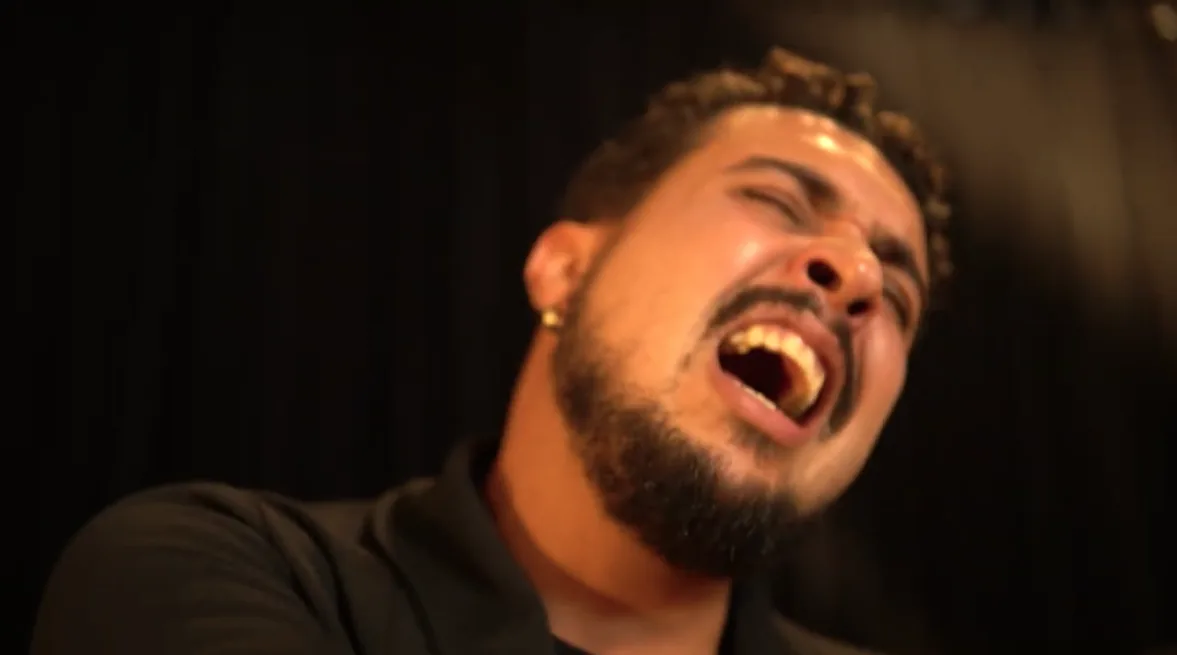
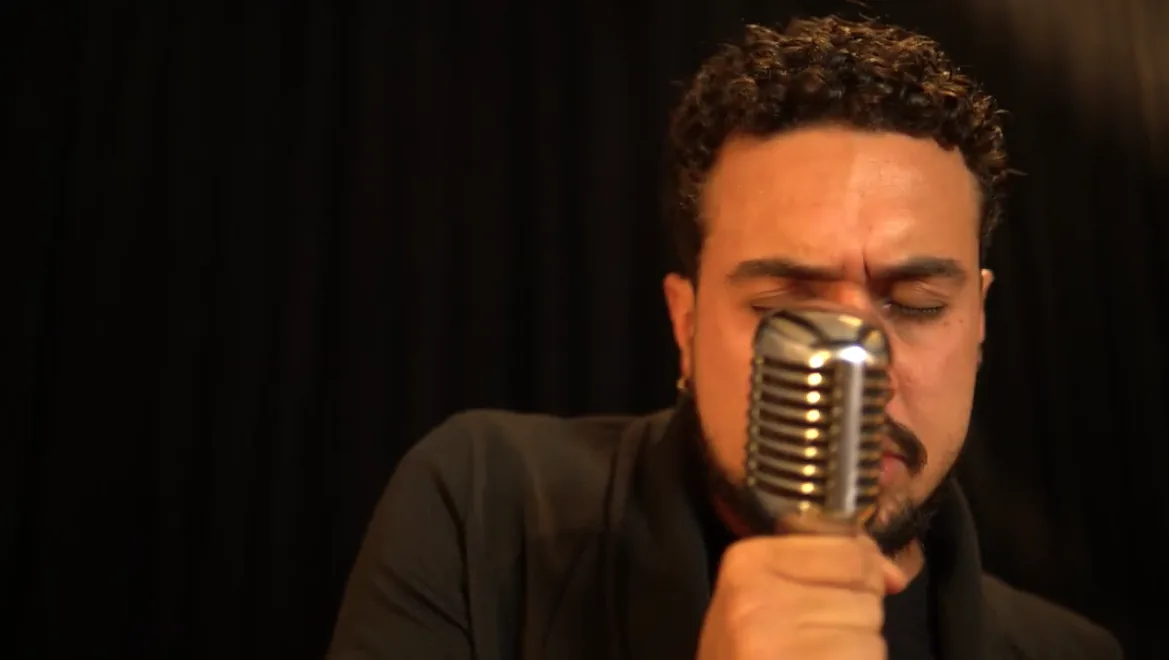
Ajustes de textos, ordem das faixas e frame de Lúgubre (#22)
* Ajusta textos da home e da ficha técnica do Correnteza

- Remove a linha de local acima do nome, na abertura
- Novos textos: Correnteza (pré-save), Pacífico Homem, clipes e 'Raízes mineiras'
- 'Faixa do álbum' no sobretítulo dos clipes A Dança das Chamas e Lúgubre
- 'Ler história completa' expande a história da dupla (aria-expanded, teclado)
- Legendas da galeria e trajetória com nome e local dos festivais
- Ficha técnica: Estúdio Leve Music, Belo Horizonte – MG

* Correnteza passa a ser a faixa 05; novo frame do clipe de Lúgubre

- Listas de faixas e do encarte em correnteza.html na ordem nova
- Endereços curtos e cartões de link renumerados (Correnteza 05,
  A Dança das Chamas 06, Degredo 07, Lúgubre 08)
- Card do clipe de Lúgubre com o frame novo (frame_lugubre)

---------

diff --git a/index.html b/index.html
@@ -23,7 +23,7 @@
 <link rel="preconnect" href="https://fonts.googleapis.com">
 <link rel="preconnect" href="https://fonts.gstatic.com" crossorigin>
 <link href="https://fonts.googleapis.com/css2?family=Cormorant+Garamond:ital,wght@0,400;0,500;0,600;1,400;1,500&family=Work+Sans:wght@400;500;600&display=swap" rel="stylesheet">
-<link rel="stylesheet" href="css/estilo.css?v=9">
+<link rel="stylesheet" href="css/estilo.css?v=14">
 </head>
 <body>
 
@@ -69,7 +69,6 @@
 <svg viewBox="0 0 1440 220" preserveAspectRatio="none"><path d="M0 110 C 260 70, 520 95, 760 60 S 1180 95, 1440 70 L1440 220 L0 220Z" fill="#0E1826"/></svg>
 </div>
 <div class="abertura-texto" id="aberturaTexto">
-<p class="local">Alvinópolis, Minas Gerais</p>
 <h1><span>Thales Carvalho</span><span>&amp; Thayson Azevedo</span></h1>
 <div class="acoes">
 <a class="botao contorno" href="#trajetoria">Conheça nossa trajetória</a>
@@ -93,7 +92,7 @@
 <p class="quando passo" data-limite="0.12">Em breve, nosso primeiro álbum</p>
 <h2 class="passo" data-limite="0.22">Correnteza</h2>
 <p class="verso passo" data-limite="0.34">Vem em mim, correnteza</p>
-<p class="descricao passo" data-limite="0.46">Uma jornada poética e sensorial sobre a força transformadora da natureza, os fluxos internos da alma humana e a busca por significado diante dos desafios da existência. É o resultado de um caminho marcado por resiliência e amizade, uma celebração das vozes do interior, geográfico e humano.</p>
+<p class="descricao passo" data-limite="0.46">Uma jornada poética e sensorial pela força transformadora da natureza e pelos fluxos internos da experiência humana. Entre paisagens, afetos e movimento, <em>Correnteza</em> celebra tanto o interior de Minas Gerais, onde essa música nasce, quanto o universo íntimo de sentimentos, memórias e transformações que atravessam cada pessoa. O álbum marca ainda o amadurecimento de uma parceria musical e de uma amizade construída ao longo de mais de quinze anos.</p>
 <div class="passo" data-limite="0.6">
 <div class="acoes-linha">
 <a class="botao" href="#correnteza">Fazer pré-save</a>
@@ -110,8 +109,17 @@
 <div class="quem-in">
 <div>
 <h2>Raízes mineiras, olhar contemporâneo</h2>
-<p>O duo Thales Carvalho e Thayson Azevedo constrói, há mais de 15 anos, uma trajetória dedicada à música autoral em Minas Gerais. Reconhecidos em festivais pela força de suas composições, unem raízes mineiras a influências contemporâneas. Seu trabalho é marcado pela experimentação estética, pela fusão de sonoridades e pelo compromisso com a cena cultural local. Agora preparam o lançamento do álbum Correnteza, síntese poética dessa caminhada conjunta.</p>
-<a class="mais" href="#trajetoria">Ler a história completa</a>
+<p>Thales Carvalho e Thayson Azevedo constroem há mais de 15 anos uma trajetória dedicada à música autoral em Minas Gerais. Reconhecido por sua participação e premiações em festivais da canção, o duo traz consigo o aprendizado da música feita no interior mineiro e o coloca em diálogo com diferentes caminhos da música brasileira e do rock. Em <strong>Correnteza</strong>, seu novo álbum, essas águas se encontram em um trabalho que celebra suas raízes e, ao mesmo tempo, se abre à experimentação.</p>
+<!-- história completa: sem JS fica aberta; o principal.js recolhe e liga o botão "Ler história completa" -->
+<div class="historia" id="historiaCompleta"><div>
+<p>Thales e Thayson se conheceram em 2007, ainda muito jovens, durante as aulas de musicalização de uma banda de instrumentos de sopro de sua cidade natal, Alvinópolis, no interior de Minas Gerais. Foi nesse ambiente que amizade e música começaram a caminhar juntas. A partir de 2009, ao lado de outros amigos, formaram seu primeiro projeto musical: uma banda de rock. Desde então, seguiram compondo, tocando e construindo uma parceria que atravessaria diferentes projetos e momentos de suas vidas.</p>
+<p>Parte importante dessa formação aconteceu nos festivais de música autoral. A convivência com compositores, intérpretes, músicos e diferentes formas de fazer canção transformou esses espaços em verdadeiras escolas para a dupla. Entre participações, premiações e projetos realizados por meio de leis de incentivo à cultura, Thales e Thayson foram amadurecendo uma linguagem própria, marcada pelo encontro entre a canção brasileira, a experiência do rock e a musicalidade aprendida no interior.</p>
+<p>Essa caminhada deságua em <strong>Correnteza</strong>, álbum cuja gravação começou em 2024. O trabalho nasce do desejo de olhar novamente para as próprias raízes e celebrar a música mineira a partir da experiência particular da dupla. Não se trata de reproduzir uma tradição, mas de atravessá-la com tudo aquilo que Thales e Thayson ouviram, tocaram e aprenderam ao longo dos anos. Assim, referências da canção brasileira convivem com o rock e com outras sonoridades, criando uma música ao mesmo tempo ligada ao lugar de onde veio e aberta para outros caminhos.</p>
+<p>A construção do álbum também reuniu importantes músicos da cena mineira. A produção ficou a cargo do produtor e baixista Felipe Fantoni, e as gravações contaram ainda com a participação do baterista Arthur Rezende. Essas colaborações ampliam a dimensão coletiva de <strong>Correnteza</strong> e aproximam ainda mais o trabalho da rede de músicos que movimenta a produção musical contemporânea em seu lugar de origem.</p>
+<p>O próprio nome do álbum traduz esse movimento. Ele é feito de nascimentos, encontros, desvios e confluências: mais de quinze anos de história que seguem seu curso até chegar a essas canções. Essa ideia de fluxo também aparece nas letras, atravessadas por rios, águas, ventos, fogo, caminhos e outras imagens da natureza. São imagens que nascem de uma sensibilidade formada no interior de Minas Gerais, onde a paisagem não é apenas cenário, mas parte da maneira de perceber o mundo. Por isso a obra também dialoga com uma longa tradição da canção feita em Minas e em tantos interiores do Brasil, onde a natureza frequentemente se transforma em matéria de poesia. No álbum, porém, ela não aparece apenas para ser contemplada. A paisagem externa também abre caminho para uma paisagem interior. Rios, ventos, águas e movimentos da terra acabam falando de passagem, desejo, memória, transformação e sentimento.</p>
+<p>Há, portanto, duas naturezas em <strong>Correnteza</strong>: aquela que se vê ao redor e aquela que cada pessoa carrega dentro de si. Entre uma e outra, Thales Carvalho e Thayson Azevedo apresentam um álbum que olha para o lugar de onde vieram enquanto continua seguindo adiante — como toda correnteza.</p>
+</div></div>
+<button type="button" class="mais" id="btHistoria" aria-expanded="true" aria-controls="historiaCompleta" hidden>Ler história completa</button>
 </div>
 <img class="retrato" src="img/sem-ano_sem-evento_sem-musica-3.webp" width="1200" height="1600" loading="lazy" alt="Thales Carvalho e Thayson Azevedo no palco, com violão e guitarra, sob luz vermelha">
 </div>
@@ -126,21 +134,21 @@
 </div>
 <div class="rio" aria-hidden="true"><span id="rioCheio"></span></div>
 <div class="trilha" id="trilha">
-<article class="marco"><span class="ano">2009</span><h3>Melhor intérprete · 29º Festival</h3><span class="musica">Meu triunfo é o rock n' roll</span><p>Movidos pelo Festival da Canção de Alvinópolis, nasce a parceria.</p>
+<article class="marco"><span class="ano">2009</span><h3>Melhor intérprete · 29º Festival da Canção de Alvinópolis – MG</h3><span class="musica">Meu triunfo é o rock n' roll</span><p>Movidos pelo Festival da Canção de Alvinópolis, nasce a parceria.</p>
 <img src="img/2009_festival-alvinopolis_meu-triunfo-e-o-rock-n-roll.webp" width="448" height="336" alt="Banda tocando guitarras no palco do Festival da Canção de Alvinópolis em 2009, com luzes coloridas e fumaça"></article>
 <article class="marco"><span class="ano">2012</span><h3>Melhor intérprete</h3><span class="musica">Monotonia</span><p>Com a banda Hard Case.</p>
 <img src="img/2012_festival-alvinopolis_monotonia.webp" width="960" height="720" loading="lazy" alt="A banda Hard Case posando em tom de brincadeira numa praça à noite, no festival de 2012"></article>
 <article class="marco"><span class="ano">2014</span><h3>4º lugar geral</h3><span class="musica">O espelho do outro lado</span><p>Já como Paralello.</p>
 <img src="img/2014_festival-alvinopolis-premiacao_o-espelho-do-outro-lado.webp" width="960" height="720" loading="lazy" alt="Premiados no palco do Festival da Canção de Alvinópolis de 2014, com o troféu em forma de clave de sol"></article>
-<article class="marco"><span class="ano">2016</span><h3>1º lugar da fase local</h3><span class="musica">Encruzilhada</span><p>Paralello no 36º Festival da Canção.</p>
+<article class="marco"><span class="ano">2016</span><h3>1º lugar da fase local</h3><span class="musica">Encruzilhada</span><p>Paralello no 36º Festival da Canção de Alvinópolis – MG.</p>
 <img src="img/2016_festival-alvinopolis-fase-local_encruzilhada.webp" width="960" height="540" loading="lazy" alt="Paralello tocando Encruzilhada no Celeiro Bar, com o banner do 36º Festival da Canção de Alvinópolis, 2016"></article>
-<article class="marco"><span class="ano">2019</span><h3>1º lugar geral · 37º Festival</h3><span class="musica">No Leito</span>
+<article class="marco"><span class="ano">2019</span><h3>1º lugar geral · 37º Festival da Canção de Alvinópolis – MG</h3><span class="musica">No Leito</span>
 <img src="img/2019_festival-alvinopolis-premiacao_no-leito.webp" width="744" height="690" loading="lazy" alt="Quatro amigos abraçados segurando o troféu de primeiro lugar geral do Festival da Canção de Alvinópolis, 2019"></article>
-<article class="marco"><span class="ano">2023</span><h3>Melhor Música de Alvinópolis · 38º Festival</h3><span class="musica">Lúgubre</span><p>A canção premiada ganha videoclipe em 2024.</p>
+<article class="marco"><span class="ano">2023</span><h3>Melhor Música de Alvinópolis · 38º Festival da Canção de Alvinópolis – MG</h3><span class="musica">Lúgubre</span><p>A canção premiada ganha videoclipe em 2024.</p>
 <img src="img/2023_festival-alvinopolis-premiacao_lugubre.webp" width="1599" height="1066" loading="lazy" alt="A dupla e músicos com os cheques de Melhor Música de Alvinópolis no 38º Festival da Canção"></article>
-<article class="marco"><span class="ano">2025</span><h3>Melhor Música de Alvinópolis · 39º Festival</h3><span class="musica">Meandros</span><p>A dupla volta a ser premiada no Festival da Canção.</p>
+<article class="marco"><span class="ano">2025</span><h3>Melhor Música de Alvinópolis · 39º Festival da Canção de Alvinópolis – MG</h3><span class="musica">Meandros</span><p>A dupla volta a ser premiada no Festival da Canção.</p>
 <img src="img/2025_festival-alvinopolis-premiacao_meandros.webp" width="1078" height="832" loading="lazy" alt="Amigos comemoram com a placa de Melhor Música de Alvinópolis diante do banner do 39º Festival da Canção, em 2025"></article>
-<article class="marco"><span class="ano">2026</span><h3>Melhor Música de Alvinópolis · 40º Festival</h3><span class="musica">Do Avesso</span><p>Mais uma canção premiada no Festival da Canção de Alvinópolis.</p>
+<article class="marco"><span class="ano">2026</span><h3>Melhor Música de Alvinópolis · 40º Festival da Canção de Alvinópolis – MG</h3><span class="musica">Do Avesso</span><p>Mais uma canção premiada no Festival da Canção de Alvinópolis.</p>
 <img src="img/2026_festival-alvinopolis-premiacao_do-avesso.webp" width="1200" height="1600" loading="lazy" alt="Grupo abraçado no palco com o troféu de Melhor Música de Alvinópolis, na premiação de Do Avesso em 2026"></article>
 <article class="marco destaque"><span class="ano">Hoje</span><h3>Lançamento de singles e do álbum Correnteza</h3><span class="musica">A próxima página</span><p>Os singles chegam às plataformas e o primeiro álbum se aproxima.</p>
 <img src="img/2025_show-acustico-correnteza_sem-musica-3.webp" width="1200" height="1600" loading="lazy" alt="A dupla em show acústico de Correnteza, com a arte do álbum projetada ao fundo"></article>
@@ -156,7 +164,7 @@
 <img class="capinha" src="img/sem-ano_capa-single_pacifico-homem.webp" width="1600" height="1600" loading="lazy" alt="Capa de Pacífico Homem: homem de máscara segurando um ramo, num vale enevoado cortado por um riacho">
 <p class="gancho">Composta na Rua Pacífico Homem, em Ouro Preto</p>
 <h3>Pacífico Homem, single</h3>
-<p>Produzido do zero em home studio, com sonoridade intimista e tecnicamente cuidadosa.</p>
+<p>Produzido de forma independente, o single flerta com a sonoridade da música brasileira setentista.</p>
 <div class="obra-acoes">
 <a class="botao" href="https://open.spotify.com/track/0tWGZJrif0WSTOK7dhBFYT" target="_blank" rel="noopener">Ouvir no Spotify</a>
 <button type="button" class="obra-partilhar" data-titulo="Pacífico Homem" data-link="https://open.spotify.com/track/0tWGZJrif0WSTOK7dhBFYT" aria-label="Compartilhar Pacífico Homem"><svg viewBox="0 0 24 24" aria-hidden="true"><circle cx="18" cy="5.5" r="2.6"/><circle cx="6" cy="12" r="2.6"/><circle cx="18" cy="18.5" r="2.6"/><path d="M8.3 10.8l7.4-4M8.3 13.2l7.4 4"/></svg><span>Compartilhar</span></button>
@@ -181,16 +189,16 @@
 </article>
 <article class="obra chamas">
 <img class="capinha" src="img/sem-ano_clipe_danca-das-chamas.webp" width="1600" height="905" loading="lazy" alt="Frame do videoclipe de A Dança das Chamas: a dupla canta e toca violão em estúdio">
-<p class="gancho">Faixa de Correnteza</p>
+<p class="gancho">Faixa do álbum</p>
 <h3>A Dança das Chamas, videoclipe</h3>
-<p>Gravado em estúdio e exibido na Mostra Cultural da Lei Paulo Gustavo. Estreia em breve no YouTube.</p>
+<p>Clipe no formato de making of, registrando o processo de gravação.</p>
 <span class="botao contorno em-breve" aria-disabled="true">Em breve</span>
 </article>
 <article class="obra lugubre">
-<img class="capinha" src="img/sem-ano_clipe_lugubre.webp" width="1177" height="655" loading="lazy" alt="Frame do videoclipe de Lúgubre: o cantor de olhos fechados, cantando com intensidade sobre fundo escuro">
-<p class="gancho">Fala, minha noite</p>
+<img class="capinha" src="img/sem-ano_clipe_lugubre.webp?v=2" width="1169" height="660" loading="lazy" alt="Frame do videoclipe de Lúgubre: o cantor de olhos fechados canta num microfone antigo, sobre fundo escuro">
+<p class="gancho">Faixa do álbum</p>
 <h3>Lúgubre, videoclipe</h3>
-<p>Exibido em Alvinópolis na Mostra Cultural da Lei Paulo Gustavo, assim como A Dança das Chamas.</p>
+<p>Clipe no formato de making of, registrando o processo de gravação.</p>
 <span class="botao contorno em-breve" aria-disabled="true">Em breve</span>
 </article>
 </div>
@@ -205,17 +213,17 @@
 <figure><button type="button"><img src="img/sem-ano_bolsa-amarela_sem-musica.webp" width="1048" height="724" loading="lazy" alt="Foto antiga da primeira banda da dupla tocando guitarras na rua"></button>
 <figcaption><b>2008</b> · <i>A Bolsa Amarela</i> · Paródia de <i>Minha Brasília Amarela</i>, dos Mamonas Assassinas, inspirada no livro <i>A Bolsa Amarela</i> e apresentada na Hora Cívica do colégio municipal. Foi a primeira apresentação da dupla em público, aos 15 anos, ao lado dos parceiros da primeira banda que os dois fundaram.</figcaption></figure>
 <figure><button type="button"><img src="img/2014_festival-alvinopolis_o-espelho-do-outro-lado.webp" width="960" height="640" loading="lazy" alt="Paralello no palco do Festival da Canção de Alvinópolis, 2014"></button>
-<figcaption><b>2014</b> · Festival da Canção de Alvinópolis · <i>O espelho do outro lado</i> · foto: fimagens.com</figcaption></figure>
+<figcaption><b>2014</b> · 4º lugar no Festival da Canção de Alvinópolis · foto: fimagens.com</figcaption></figure>
 <figure><button type="button"><img src="img/2019_rock-in-rua_sem-musica.webp" width="1024" height="768" loading="lazy" alt="Banda tocando no palco de rua do Rock in Rua, 2019"></button>
 <figcaption><b>2019</b> · Rock in Rua</figcaption></figure>
 <figure><button type="button"><img src="img/2023_festival-alvinopolis_lugubre.webp" width="1063" height="563" loading="lazy" alt="Cantor de braços abertos apresentando Lúgubre no 38º Festival da Canção de Alvinópolis"></button>
-<figcaption><b>2023</b> · 38º Festival da Canção de Alvinópolis · <i>Lúgubre</i></figcaption></figure>
+<figcaption><b>2023</b> · Prêmio de Melhor Música da Cidade no Festival da Canção de Alvinópolis</figcaption></figure>
 <figure><button type="button"><img src="img/sem-ano_festival-bela-vista_sem-musica.webp" width="1600" height="1200" loading="lazy" alt="Grupo de músicos e amigos reunidos em frente ao palco do festival em Bela Vista"></button>
-<figcaption><b>2023</b> · Festival em Bela Vista</figcaption></figure>
+<figcaption><b>2023</b> · Finalistas no Festival Canta Bela Vista, em Bela Vista de Minas – MG</figcaption></figure>
 <figure><button type="button"><img src="img/sem-ano_festival-bela-vista_lugubre.webp" width="1280" height="916" loading="lazy" alt="Apresentação de Lúgubre sob luz azul, com uma lua e uma árvore projetadas no telão"></button>
-<figcaption><b>2024</b> · Festival em Bela Vista · <i>Lúgubre</i></figcaption></figure>
+<figcaption><b>2023</b> · Participação no Festival Canta Bela Vista com a canção <i>Lúgubre</i></figcaption></figure>
 <figure><button type="button"><img src="img/sem-ano_mostra-cultural-lei-paulo-gustavo_danca-das-chamas-e-lugubre.webp" width="1600" height="1043" loading="lazy" alt="A dupla fala ao microfone na Mostra Cultural da Lei Paulo Gustavo"></button>
-<figcaption><b>2024</b> · Mostra Cultural Lei Paulo Gustavo · clipes de <i>A Dança das Chamas</i> e <i>Lúgubre</i></figcaption></figure>
+<figcaption><b>2024</b> · Exibição dos videoclipes de <i>A Dança das Chamas</i> e <i>Lúgubre</i>, com incentivo da Lei Paulo Gustavo</figcaption></figure>
 <figure><button type="button"><img src="img/2024_gravacao-leve-music_sem-musica.webp" width="900" height="1600" loading="lazy" alt="Colagem de bastidores da gravação em estúdio: violão, bateria e mesa de som"></button>
 <figcaption>Gravação no estúdio Leve Music</figcaption></figure>
 <figure><button type="button"><img src="img/2025_show-acustico-correnteza_sem-musica-1.webp" width="1200" height="1600" loading="lazy" alt="Músico de camisa preta toca violão sentado no show acústico de Correnteza"></button>
@@ -229,19 +237,19 @@
 <figure><button type="button"><img src="img/2026_sem-evento_sem-musica.webp" width="901" height="1600" loading="lazy" alt="Selfie da dupla de óculos escuros, com violões, num palco ao ar livre durante o dia em Bela Vista"></button>
 <figcaption><b>2026</b> · Festival em Bela Vista · <i>Meandros</i></figcaption></figure>
 <figure><button type="button"><img src="img/2026_festival-alvinopolis_do-avesso-1.webp" width="1600" height="1200" loading="lazy" alt="Banda no palco do Festival da Canção de Alvinópolis, com telão mostrando um disco e a torre de uma igreja"></button>
-<figcaption><b>2026</b> · Festival da Canção de Alvinópolis · <i>Do Avesso</i></figcaption></figure>
+<figcaption><b>2026</b> · Apresentação da canção inédita <i>Do Avesso</i></figcaption></figure>
 <figure><button type="button"><img src="img/2026_festival-alvinopolis_do-avesso-2.webp" width="1200" height="1600" loading="lazy" alt="A dupla tocando violões sob luzes azuis no palco do festival"></button>
-<figcaption><b>2026</b> · Festival da Canção de Alvinópolis · <i>Do Avesso</i></figcaption></figure>
+<figcaption><b>2026</b> · Apresentação da canção inédita <i>Do Avesso</i></figcaption></figure>
 <figure><button type="button"><img src="img/2026_festival-alvinopolis_do-avesso-3.webp" width="900" height="1600" loading="lazy" alt="A dupla com violão e guitarra no palco iluminado do festival"></button>
-<figcaption><b>2026</b> · Festival da Canção de Alvinópolis · <i>Do Avesso</i></figcaption></figure>
+<figcaption><b>2026</b> · Apresentação da canção inédita <i>Do Avesso</i></figcaption></figure>
 <figure><button type="button"><img src="img/sem-ano_sem-evento_sem-musica-1.webp" width="900" height="1600" loading="lazy" alt="A dupla em show, com violão e guitarra, sob luz azul, no 40º Festival da Canção de Alvinópolis"></button>
-<figcaption><b>2026</b> · 40º Festival da Canção de Alvinópolis</figcaption></figure>
+<figcaption><b>2026</b> · Finalistas no 40º Festival da Canção de Alvinópolis e Prêmio de Melhor Música da Cidade</figcaption></figure>
 <figure><button type="button"><img src="img/sem-ano_sem-evento_sem-musica-2.webp" width="900" height="1600" loading="lazy" alt="A dupla cantando e tocando violão e guitarra em palco escuro com luz azul, no 40º Festival da Canção de Alvinópolis"></button>
-<figcaption><b>2026</b> · 40º Festival da Canção de Alvinópolis</figcaption></figure>
+<figcaption><b>2026</b> · Finalistas no 40º Festival da Canção de Alvinópolis e Prêmio de Melhor Música da Cidade</figcaption></figure>
 <figure class="pequena"><button type="button"><img src="img/sem-ano_gravacao-home-studio_pacifico-homem.webp" width="249" height="375" loading="lazy" alt="Gravação em home studio: um músico canta ao microfone enquanto outro opera o computador"></button>
 <figcaption>Gravação em home studio · <i>Pacífico Homem</i></figcaption></figure>
 <figure><button type="button"><img src="img/sem-ano_equipe_sem-musica.webp" width="1200" height="1600" loading="lazy" alt="Quatro pessoas posam abraçadas diante de uma parede de capas de discos"></button>
-<figcaption>Equipe</figcaption></figure>
+<figcaption>Equipe do álbum: Felipe Fantoni, baixos e produção musical; Arthur Rezende, bateria</figcaption></figure>
 </div>
 </div>
 </section>
@@ -275,7 +283,7 @@
 </dialog>
 
 <script src="js/medicao.js?v=1"></script>
-<script src="js/principal.js?v=7"></script>
+<script src="js/principal.js?v=8"></script>
 <script src="js/rolagem.js?v=1"></script>
 </body>
 </html>

diff --git a/correnteza.html b/correnteza.html
@@ -195,10 +195,10 @@ faixas completas, letras e downloads para quem tem o código. -->
 <li><button type="button" class="faixa" disabled><span class="num">02</span><span class="nome">Candeia</span><span class="estado">exclusivo</span></button></li>
 <li><button type="button" class="faixa" disabled><span class="num">03</span><span class="nome">No Leito</span><span class="estado">exclusivo</span></button></li>
 <li><button type="button" class="faixa" disabled><span class="num">04</span><span class="nome">Meandros</span><span class="estado">exclusivo</span></button></li>
-<li><button type="button" class="faixa" disabled><span class="num">05</span><span class="nome">A Dança das Chamas</span><span class="estado">exclusivo</span></button></li>
-<li><button type="button" class="faixa" disabled><span class="num">06</span><span class="nome">Degredo</span><span class="estado">exclusivo</span></button></li>
-<li><button type="button" class="faixa" disabled><span class="num">07</span><span class="nome">Lúgubre</span><span class="estado">exclusivo</span></button></li>
-<li><button type="button" class="faixa" disabled><span class="num">08</span><span class="nome">Correnteza</span><span class="estado">exclusivo</span></button></li>
+<li><button type="button" class="faixa" disabled><span class="num">05</span><span class="nome">Correnteza</span><span class="estado">exclusivo</span></button></li>
+<li><button type="button" class="faixa" disabled><span class="num">06</span><span class="nome">A Dança das Chamas</span><span class="estado">exclusivo</span></button></li>
+<li><button type="button" class="faixa" disabled><span class="num">07</span><span class="nome">Degredo</span><span class="estado">exclusivo</span></button></li>
+<li><button type="button" class="faixa" disabled><span class="num">08</span><span class="nome">Lúgubre</span><span class="estado">exclusivo</span></button></li>
 <li><button type="button" class="faixa" disabled><span class="num">09</span><span class="nome">Endless</span><span class="estado">exclusivo</span></button></li>
 </ol>
 </div>
@@ -216,10 +216,10 @@ páginas com as letras, que vêm da API (as letras nunca ficam nos arquivos do s
 <li><span class="num">02</span><span class="nome">Candeia</span></li>
 <li><span class="num">03</span><span class="nome">No Leito</span></li>
 <li><span class="num">04</span><span class="nome">Meandros</span></li>
-<li><span class="num">05</span><span class="nome">A Dança das Chamas</span></li>
-<li><span class="num">06</span><span class="nome">Degredo</span></li>
-<li><span class="num">07</span><span class="nome">Lúgubre</span></li>
-<li><span class="num">08</span><span class="nome">Correnteza</span></li>
+<li><span class="num">05</span><span class="nome">Correnteza</span></li>
+<li><span class="num">06</span><span class="nome">A Dança das Chamas</span></li>
+<li><span class="num">07</span><span class="nome">Degredo</span></li>
+<li><span class="num">08</span><span class="nome">Lúgubre</span></li>
 <li><span class="num">09</span><span class="nome">Endless</span></li>
 </ol>
 </div>
@@ -237,7 +237,7 @@ páginas com as letras, que vêm da API (as letras nunca ficam nos arquivos do s
 <div><dt>Baixos</dt><dd>Felipe Fantoni</dd></div>
 <div><dt>Bateria</dt><dd>Arthur Rezende</dd></div>
 <div><dt>Teclados, pads e synths</dt><dd>Marcus Nogueira</dd></div>
-<div><dt>Gravação</dt><dd>estúdio Leve Music</dd></div>
+<div><dt>Gravação</dt><dd>Estúdio Leve Music, Belo Horizonte – MG</dd></div>
 <div><dt>Mixagem e masterização</dt><dd>Felipe Fantoni</dd></div>
 <div><dt>Arte da capa</dt><dd>Thales Carvalho e Thayson Azevedo</dd></div>
 </dl>

diff --git a/css/estilo.css b/css/estilo.css
@@ -86,7 +86,18 @@ img{ max-width:100%; height:auto; display:block; }
 .quem-in{ max-width:1280px; margin:0 auto; padding:120px 24px; display:grid; grid-template-columns:minmax(0,1.2fr) minmax(0,.8fr); gap:72px; align-items:center; }
 .quem h2{ font-family:var(--serif); font-weight:500; font-size:clamp(40px, 5vw, 64px); line-height:1.05; margin-bottom:24px; }
 .quem p{ color:#2B4560; max-width:62ch; margin-bottom:18px; }
-.quem a.mais{ color:var(--ambar-escuro); font-weight:600; text-decoration:none; }
+.quem .mais{ color:var(--ambar-escuro); font-weight:600; text-decoration:none; }
+/* "Ler história completa": o principal.js põe .recolhivel (sem JS o texto fica aberto) */
+.quem button.mais{ display:inline-flex; align-items:center; gap:8px; padding:6px 0; background:none; border:0; font:inherit; font-weight:600; cursor:pointer; }
+.quem button.mais::after{ content:''; width:7px; height:7px; border-right:2px solid currentColor; border-bottom:2px solid currentColor; transform:translateY(-2px) rotate(45deg); transition:transform .4s ease; }
+.quem button.mais[aria-expanded="true"]::after{ transform:translateY(2px) rotate(-135deg); }
+.quem button.mais:hover{ text-decoration:underline; text-underline-offset:4px; }
+.historia.recolhivel{ display:grid; grid-template-rows:0fr; opacity:0; visibility:hidden;
+  transition:grid-template-rows .7s cubic-bezier(.2,.7,.2,1), opacity .5s ease, visibility 0s linear .7s; }
+.historia.recolhivel > div{ overflow:hidden; min-height:0; }
+.historia.recolhivel.aberta{ grid-template-rows:1fr; opacity:1; visibility:visible;
+  transition:grid-template-rows .7s cubic-bezier(.2,.7,.2,1), opacity .7s ease .15s, visibility 0s; }
+@media (prefers-reduced-motion: reduce){ .historia.recolhivel, .historia.recolhivel.aberta, .quem button.mais::after{ transition:none; } }
 .retrato{ aspect-ratio:4/5; width:100%; border-radius:4px; object-fit:cover; object-position:50% 40%; }
 @media (max-width:860px){ .quem-in{ grid-template-columns:1fr; padding:80px 24px; gap:36px; } }
 

diff --git a/js/principal.js b/js/principal.js
@@ -78,7 +78,7 @@
     }
     grupo('.correnteza .quando');
     grupo('.correnteza .verso, .correnteza .descricao, .correnteza .acoes-linha', 2);
-    grupo('.quem p, .quem .mais', 2);
+    grupo('.quem-in > div > p, .quem .mais', 2);
     grupo('.traj-topo .botao', 2);
     grupo('.galeria .intro', 1);
     grupo('.contato .apoio-texto', 1);
@@ -144,6 +144,25 @@
       else window.open(link, '_blank', 'noopener');
     });
   });
+
+  // Quem somos: "Ler história completa" abre e recolhe o resto do texto
+  var historia = document.getElementById('historiaCompleta');
+  var btHistoria = document.getElementById('btHistoria');
+  if (historia && btHistoria){
+    historia.classList.add('recolhivel');
+    btHistoria.setAttribute('aria-expanded', 'false');
+    btHistoria.hidden = false;
+    btHistoria.addEventListener('click', function(){
+      var abrir = !historia.classList.contains('aberta');
+      // ao recolher, o botão sobe até onde o texto começa: a página acompanha, se esse ponto ficou para trás
+      var inicio = historia.getBoundingClientRect().top;
+      historia.classList.toggle('aberta', abrir);
+      btHistoria.setAttribute('aria-expanded', abrir ? 'true' : 'false');
+      btHistoria.textContent = abrir ? 'Recolher' : 'Ler história completa';
+      if (!abrir && inicio < 100) window.scrollBy({ top: inicio - window.innerHeight * 0.4, behavior: reduzir ? 'auto' : 'smooth' });
+      setTimeout(pedir, reduzir ? 0 : 750);
+    });
+  }
 
   // 4. Galeria: clicar numa foto abre a versão ampliada, com setas e Esc
   var janela = document.getElementById('ampliada');

diff --git a/a-danca-das-chamas/index.html b/a-danca-das-chamas/index.html
@@ -1,12 +1,12 @@
 <!doctype html>
-<!-- Endereço curto da faixa 05 para divulgar (Stories, bio, WhatsApp). Mostra o cartão de link
+<!-- Endereço curto da faixa 06 para divulgar (Stories, bio, WhatsApp). Mostra o cartão de link
      da faixa e leva para a página do álbum com a faixa já escolhida, mantendo a marcação de origem (?origem=...). -->
 <html lang="pt-BR">
 <head>
 <meta charset="utf-8">
 <meta name="viewport" content="width=device-width, initial-scale=1">
 <title>A Dança das Chamas · Correnteza · Thales Carvalho &amp; Thayson Azevedo</title>
-<meta name="description" content="Ouça a prévia de A Dança das Chamas, faixa 5 de Correnteza, o primeiro álbum de Thales Carvalho e Thayson Azevedo.">
+<meta name="description" content="Ouça a prévia de A Dança das Chamas, faixa 6 de Correnteza, o primeiro álbum de Thales Carvalho e Thayson Azevedo.">
 <meta name="robots" content="noindex">
 <meta name="theme-color" content="#0E1826">
 <meta property="og:type" content="music.song">

diff --git a/correnteza/index.html b/correnteza/index.html
@@ -1,12 +1,12 @@
 <!doctype html>
-<!-- Endereço curto da faixa 08 para divulgar (Stories, bio, WhatsApp). Mostra o cartão de link
+<!-- Endereço curto da faixa 05 para divulgar (Stories, bio, WhatsApp). Mostra o cartão de link
      da faixa e leva para a página do álbum com a faixa já escolhida, mantendo a marcação de origem (?origem=...). -->
 <html lang="pt-BR">
 <head>
 <meta charset="utf-8">
 <meta name="viewport" content="width=device-width, initial-scale=1">
 <title>Correnteza · Correnteza · Thales Carvalho &amp; Thayson Azevedo</title>
-<meta name="description" content="Ouça a prévia de Correnteza, faixa 8 de Correnteza, o primeiro álbum de Thales Carvalho e Thayson Azevedo.">
+<meta name="description" content="Ouça a prévia de Correnteza, faixa 5 de Correnteza, o primeiro álbum de Thales Carvalho e Thayson Azevedo.">
 <meta name="robots" content="noindex">
 <meta name="theme-color" content="#0E1826">
 <meta property="og:type" content="music.song">

diff --git a/lugubre/index.html b/lugubre/index.html
@@ -1,12 +1,12 @@
 <!doctype html>
-<!-- Endereço curto da faixa 07 para divulgar (Stories, bio, WhatsApp). Mostra o cartão de link
+<!-- Endereço curto da faixa 08 para divulgar (Stories, bio, WhatsApp). Mostra o cartão de link
      da faixa e leva para a página do álbum com a faixa já escolhida, mantendo a marcação de origem (?origem=...). -->
 <html lang="pt-BR">
 <head>
 <meta charset="utf-8">
 <meta name="viewport" content="width=device-width, initial-scale=1">
 <title>Lúgubre · Correnteza · Thales Carvalho &amp; Thayson Azevedo</title>
-<meta name="description" content="Ouça a prévia de Lúgubre, faixa 7 de Correnteza, o primeiro álbum de Thales Carvalho e Thayson Azevedo.">
+<meta name="description" content="Ouça a prévia de Lúgubre, faixa 8 de Correnteza, o primeiro álbum de Thales Carvalho e Thayson Azevedo.">
 <meta name="robots" content="noindex">
 <meta name="theme-color" content="#0E1826">
 <meta property="og:type" content="music.song">

diff --git a/degredo/index.html b/degredo/index.html
@@ -1,12 +1,12 @@
 <!doctype html>
-<!-- Endereço curto da faixa 06 para divulgar (Stories, bio, WhatsApp). Mostra o cartão de link
+<!-- Endereço curto da faixa 07 para divulgar (Stories, bio, WhatsApp). Mostra o cartão de link
      da faixa e leva para a página do álbum com a faixa já escolhida, mantendo a marcação de origem (?origem=...). -->
 <html lang="pt-BR">
 <head>
 <meta charset="utf-8">
 <meta name="viewport" content="width=device-width, initial-scale=1">
 <title>Degredo · Correnteza · Thales Carvalho &amp; Thayson Azevedo</title>
-<meta name="description" content="Ouça a prévia de Degredo, faixa 6 de Correnteza, o primeiro álbum de Thales Carvalho e Thayson Azevedo.">
+<meta name="description" content="Ouça a prévia de Degredo, faixa 7 de Correnteza, o primeiro álbum de Thales Carvalho e Thayson Azevedo.">
 <meta name="robots" content="noindex">
 <meta name="theme-color" content="#0E1826">
 <meta property="og:type" content="music.song">

diff --git a/README.md b/README.md
@@ -90,8 +90,8 @@ guardada no navegador por 30 dias, então vale mesmo se a pessoa comprar dias de
 
 (`...` = `https://thalescvalho-png.github.io/site-thales-thayson`. Também vale `?origem=qualquer-nome`.)
 
-- **Endereços curtos das faixas:** `/clareira/`, `/candeia/`, `/no-leito/`, `/meandros/`, `/a-danca-das-chamas/`,
-  `/degredo/`, `/lugubre/`, `/correnteza/` (a faixa 8), `/endless/`. Cada um mostra o cartão da faixa no
+- **Endereços curtos das faixas:** `/clareira/`, `/candeia/`, `/no-leito/`, `/meandros/`, `/correnteza/` (a faixa 5),
+  `/a-danca-das-chamas/`, `/degredo/`, `/lugubre/`, `/endless/`. Cada um mostra o cartão da faixa no
   WhatsApp/Instagram e abre a página do álbum com a faixa escolhida.
 - **Cartões de link** (`img/og/`): para refazer depois de mudar textos ou cores, edite
   `scripts/cartao-de-link.html` e rode `./scripts/gerar-cartoes-de-link.sh` (precisa do Chrome).
